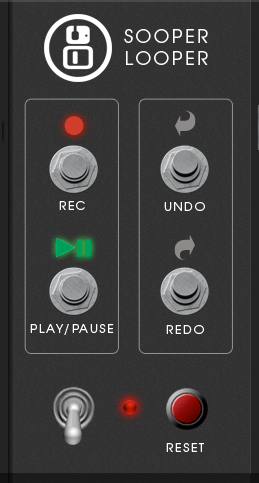
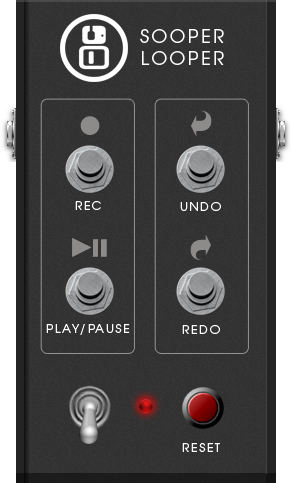
Update to new modgui style; Minor ttl style changes

diff --git a/sooperlooper/src/modgui/sooperlooper.css b/sooperlooper/src/modgui/sooperlooper.css
@@ -81,17 +81,17 @@
     .mod-sooperlooper .mod-control-image.on {
         background-position-y: bottom !important
     }
-.mod-sooperlooper .mod-light {
-height: 32px;
-width: 32px;
-bottom: 61px;
-position: absolute;
-top: inherit;
-left: 114px;
-  }
-.mod-sooperlooper .mod-light.off { 
-  background-image:url(/resources/red-light-off.png{{{ns}}}); 
-}
-.mod-sooperlooper .mod-light.on  { 
-  background-image:url(/resources/red-light-on.png{{{ns}}}); 
-}
+    .mod-sooperlooper .mod-light {
+        height: 32px;
+        width: 32px;
+        bottom: 61px;
+        position: absolute;
+        top: inherit;
+        left: 114px;
+    }
+    .mod-sooperlooper .mod-light.off {
+        background-image:url(/resources/red-light-off.png{{{ns}}});
+    }
+    .mod-sooperlooper .mod-light.on {
+        background-image:url(/resources/red-light-on.png{{{ns}}});
+    }

diff --git a/sooperlooper/src/sooperlooper.cpp b/sooperlooper/src/sooperlooper.cpp
@@ -36,7 +36,7 @@
 #include <lv2.h>
 #include <string.h>
 
-#define PLUGIN_URI "http://portalmod.com/plugins/sooperlooper"
+#define PLUGIN_URI "http://moddevices.com/plugins/sooperlooper"
 
 /**********************************************************************************************************************************************************/
 

diff --git a/README.md b/README.md
@@ -18,5 +18,5 @@ Currently it supports:
 Next features planned include:
 
  * stereo in/out
- * tempo/bpm sync 
+ * tempo/bpm sync
  * pitch change
